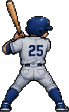
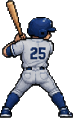
Everything anchored to the stadium picture: catcher, umpire and strike zone centred on the plate, outfielders in the outfield, one sprite scale, batter faces the plate, aim circle sized to the zone

diff --git a/index.html b/index.html
@@ -684,9 +684,9 @@ function blit(c, x, y, k, flip){
 }
 // ── generated art: load the ChatGPT sprites + field, used in place of the rig ──
 const ARTNAMES = ['swing1','swing2','swing3','swing4','pitch1','pitch2','pitch3','pitch4',
-  'catcher','infield','catch','run','pitcher_idle','fielder','walk'];
+  'catcher','infield','catch','run','pitcher_idle','fielder','walk','umpire'];
 const IMG = {}; let imgReady = 0;
-ARTNAMES.forEach(n => { const im = new Image(); im.onload = () => imgReady++; im.src = 'assets/' + n + '.png'; IMG[n] = im; });
+ARTNAMES.forEach(n => { const im = new Image(); im._n = n; im.onload = () => imgReady++; im.src = 'assets/' + n + '.png'; IMG[n] = im; });
 IMG.field = new Image(); IMG.field.onload = () => imgReady++; IMG.field.src = 'assets/fields/field_behind.png';
 const ready = im => im && im.complete && im.naturalWidth > 0;
 // draw a loaded sprite so its feet sit at (cx, footY) in logical units, scaled to height h
@@ -697,30 +697,48 @@ function blitImg(im, cx, footY, h, flip){
   g.drawImage(im, Math.round(-w / 2), Math.round(footY - h), Math.round(w), Math.round(h));
   g.restore(); return true;
 }
-// the batter: swingT null = standing in; else 0..1 drives the swing frames
+// each sprite: [width, height, where its feet are, as a fraction of its width] -- measured when the sheet was cut
+const ANCH = {"swing1": [73, 118, 0.515], "swing2": [80, 118, 0.536], "swing3": [106, 98, 0.301], "swing4": [91, 103, 0.67], "pitch1": [46, 114, 0.471], "pitch2": [52, 112, 0.65], "pitch3": [92, 104, 0.246], "pitch4": [102, 93, 0.639], "catcher": [76, 88, 0.499], "infield": [98, 88, 0.511], "catch": [66, 119, 0.299], "run": [91, 100, 0.563], "pitcher_idle": [45, 110, 0.498], "umpire": [53, 108, 0.5], "fielder": [51, 111, 0.433], "walk": [78, 112, 0.528]};
+// draw a sprite at ONE scale k (logical px per sprite px) with its feet planted at (cx, footY)
+function blitK(im, cx, footY, k, flip){
+  if (!ready(im)) return false;
+  const a = ANCH[im._n] || [im.naturalWidth, im.naturalHeight, .5];
+  const w = im.naturalWidth * k, h = im.naturalHeight * k;
+  g.save(); g.translate(Math.round(cx), 0); if (flip) g.scale(-1, 1);
+  g.drawImage(im, Math.round(-a[2] * w), Math.round(footY - h), Math.round(w), Math.round(h));
+  g.restore(); return true;
+}
+const K_BAT = .85, K_PIT = .5, K_CATCH = .7, K_UMP = .8;
+// the batter: swingT null = standing in; else 0..1 drives the swing.
+// Every frame used here faces the plate (a right-hander faces right), so he is side-on to the pitcher.
 function drawBatter(x, y, p, c1, c2, swingT, idle, num){
-  // swing2 (turned, bat cocked up) reads closest to the reference stance; swing1 was a flat back view
-  const im = swingT == null ? IMG.swing2
-           : swingT < .22 ? IMG.swing2 : swingT < .52 ? IMG.swing3 : IMG.swing4;
-  if (blitImg(im, x, y, 92, p.bats === 'L')) return;
+  const im = swingT == null || swingT < .12 ? IMG.swing4 : swingT < .5 ? IMG.swing3 : IMG.swing4;
+  if (blitK(im, x, y, K_BAT, p.bats === 'L')) return;
   const c = sprite(`B${lookKey(p.look)}|${c1}${c2}`, () => buildPlayer(batterPose(swingT), p.look, c1, c2, { number:num, helmet:1 }));
   blit(c, x, y, .70, p.bats === 'L');           // rig fallback until the image loads
 }
 // the pitcher on the mound, windup frames from u (0..1)
 function drawPitcher(x, y, p, c1, c2, u, num){
   const im = u == null || u < .40 ? IMG.pitch1 : u < .70 ? IMG.pitch2 : u < .85 ? IMG.pitch3 : IMG.pitch4;
-  if (blitImg(im, x, y, 50, false)) return;
+  if (blitK(im, x, y, K_PIT, false)) return;
   const c = sprite(`P${lookKey(p.look)}`, () => buildPlayer(pitcherPose(u || 0), p.look, c1, c2, { front:1 }));
   blit(c, x, y, .5, false);
 }
 // the catcher, crouched with his back to us
 function drawCatcher(x, y, p, c1, c2){
-  if (blitImg(IMG.catcher, x, y, 66, false)) return;
+  if (blitK(IMG.catcher, x, y, K_CATCH, false)) return;
   const c = sprite(`C${lookKey(p.look)}`, () => buildPlayer({ crouch:0, lean:0,
       hip:[56,74], chest:[56,54], neck:[56,45], head:[56,32], nSh:[47,50], fSh:[65,50],
       nEl:[36,62], nHa:[28,54], fEl:[76,62], fHa:[83,60], nKn:[32,82], nAn:[41,101], fKn:[80,82], fAn:[71,101],
       gloveA:200 }, p.look, c1, c2, { back:1, hardhat:1 }));
   blit(c, x, y, .52, false);
+}
+// the umpire stands behind the catcher
+function drawUmpire(x, y){ return blitK(IMG.umpire, x, y, K_UMP, false); }
+// a fielder, sized by his depth so the far ones are small
+function drawFielderSprite(x, y, s, per, flip){
+  const h = 285 * s * per;                              // a 285-pixel figure at the plate, shrinking with distance
+  return blitK(IMG.fielder, x, y, h / ANCH.fielder[1], flip);
 }
 // a fielder far away in the replay: a few pixels, but still shaded
 function drawMini(x, y, lk, c1, c2, k = 1){
@@ -747,12 +765,24 @@ const CROWD = ['#c9c3b4','#b89a9a','#92a6c0','#c4b47c','#a894b8','#9ab8a2','#cfa
    Everything is placed in real feet from home plate and projected onto the
    screen, so the diamond, the mound and the wall all sit where they should.
    ─────────────────────────────────────────────────────────────────────────── */
-const HOME_Y = 198, HORIZON = 70, PC = 56, PK = 3.25;
+const HOME_Y = 198, HORIZON = 70, PC = 56, PK = 3.25;     // (the old vector field's numbers, kept for the fallback)
 const pscale = d => PC / (PC + d);
+// The stadium picture is the truth. These are its landmarks, measured on the 1672 x 941 image:
+// plate (835,795), second base 380 px up, first/third base 765 px either side.
+const FLD_IMG = { w:1672, h:941, plate:[835, 795], rise:570, pc:63.7, px:24 };
+function I2L(ix, iy){            // picture pixel -> logical game pixel, using the same 'cover' fit it is drawn with
+  const sc = Math.max(cv.width / FLD_IMG.w, cv.height / FLD_IMG.h);
+  const dx = (cv.width - FLD_IMG.w * sc) / 2 + ix * sc, dy = cv.height - FLD_IMG.h * sc + iy * sc;
+  return { x:(dx - OX) / SC, y:(dy - OY) / SC, per:sc / SC };   // per = logical px for one picture px
+}
 // d = feet out from home plate, lat = feet to the right of the middle
 function proj(d, lat){
-  const s = pscale(d);
-  return { x: W / 2 + lat * s * PK, y: HOME_Y - (HOME_Y - HORIZON) * (1 - s), s };
+  // inside the infield feet are true; the picture shortens the outfield, so squeeze the radius past 127 ft
+  const r = Math.hypot(d, lat);
+  if (r > 127.3){ const f = (127.3 + (r - 127.3) * .33) / r; d *= f; lat *= f; }
+  const s = FLD_IMG.pc / (FLD_IMG.pc + Math.max(0, d));
+  const q = I2L(FLD_IMG.plate[0] + lat * FLD_IMG.px * s, FLD_IMG.plate[1] - FLD_IMG.rise * (1 - s));
+  return { x:q.x, y:q.y, s, per:q.per };
 }
 // a point on the field given an angle off dead centre (-45 = left line, +45 = right)
 const atAng = (ang, dist) => {
@@ -761,7 +791,7 @@ const atAng = (ang, dist) => {
 };
 const FIELDERS = [                                   // where the defence stands, in feet
   [100, 52, '1B'], [128, 34, '2B'], [128, -34, 'SS'], [100, -52, '3B'],
-  [275, -150, 'LF'], [318, 4, 'CF'], [275, 150, 'RF'],
+  [207, -104, 'LF'], [262, 0, 'CF'], [207, 104, 'RF'],
 ];
 
 function drawField(park, t){
@@ -934,7 +964,7 @@ function drawField(park, t){
 function drawFielders(team){
   FIELDERS.forEach(([d, lat], i) => {
     const p = proj(d, lat);
-    if (blitImg(IMG.fielder, p.x, p.y, Math.max(16, 50 * p.s), false)) return;
+    if (drawFielderSprite(p.x, p.y, p.s, p.per, lat < -20)) return;     // left-side fielders turn toward the plate
     drawMini(p.x, p.y, (team.lineup[i] || team.lineup[0]).look, team.c1, team.c2, p.s * 2.4);
   });
 }
@@ -942,7 +972,11 @@ function drawFielders(team){
 // ───────────────────────────────────────────────────────────────────────────
 //  GAME (one nine-inning game)
 // ───────────────────────────────────────────────────────────────────────────
-const ZONE = { x: 190, y: 160, w: 40, h: 34 };                 // right over the plate (x set in fit())
+const ZONE = { x: 190, y: 160, w: 40, h: 34 };                 // right over the plate
+function layoutZone(){                                          // re-centre it on the plate every frame
+  const p = proj(0, 0);
+  ZONE.w = 40; ZONE.h = 34; ZONE.x = p.x - ZONE.w / 2; ZONE.y = p.y - 60;
+}
 const PITCHES = { FB:{ n:'Fastball', mph:[90,102], br:[0,0],     col:'#ff6b5a' },
                   CV:{ n:'Curve',    mph:[74,84],  br:[0,22],    col:'#5ad2ff' },
                   SL:{ n:'Slider',   mph:[82,90],  br:[-20,8],   col:'#c48bff' },
@@ -1116,7 +1150,7 @@ function ballAt(f){
   const tx = ZONE.x + ZONE.w / 2 + P.tx * ZONE.w / 2, ty = ZONE.y + ZONE.h / 2 + P.ty * ZONE.h / 2;
   return { x: lerp(rel.x, tx + P.br[0] * e, e), y: lerp(rel.y, ty + P.br[1] * e, e), r: lerp(1, 5, e) };
 }
-function releasePt(){ const m = proj(60.5, 0); return { x: m.x + 5, y: m.y - 22 }; }
+function releasePt(){ const m = proj(60.5, 0); return { x: m.x + 4, y: m.y - 40 }; }
 const mittPt = () => ({ x: ZONE.x + ZONE.w / 2 - 12, y: ZONE.y + ZONE.h + 14 });
 const inZone = () => Math.abs(P.tx) <= 1 && Math.abs(P.ty) <= 1;
 
@@ -1618,6 +1652,7 @@ function drawFieldHD(park, t){
 
 function drawBatterView(dt){
   const park = M.park; park.excite = M.exc;
+  layoutZone();
   drawFieldHD(park, frame);
   const ft = fldTeam(), bt = batTeam();
   drawFielders(ft);
@@ -1630,14 +1665,14 @@ function drawBatterView(dt){
   drawPitcher(M0.x, M0.y + 3, pit, ft.c1, ft.c2, u, .62);
 
   // ── the umpire, then the catcher crouched under the plate ───────────────
-  const HP = proj(0, 0);
-  drawUmp(HP.x - 2, H + 20, ft);
-  drawCatcher(HP.x - 8, H + 4, M.catcher || ft.lineup[0], ft.c1, ft.c2);
+  const HP = proj(0, 0), ip = HP.per;                         // ip = logical px per picture px
+  drawUmpire(HP.x, HP.y + 172 * ip);
+  drawCatcher(HP.x, HP.y + 130 * ip, M.catcher || ft.lineup[0], ft.c1, ft.c2);   // centred right behind the plate
 
-  // ── the batter in the box ───────────────────────────────────────────────
+  // ── the batter in his box, facing the plate ─────────────────────────────
   const b = M.batter, side = b.bats === 'L' ? 1 : -1;
-  const bx = HP.x + side * 62;                               // inside the box, clear of the catcher and the zone
-  drawBatter(bx, HOME_Y + 20, b, bt.c1, bt.c2, swing ? clamp(swing.t / 220, 0, 1) : null, frame, b.num);
+  const bx = HP.x + side * 150 * ip;                         // the middle of the batter's box in the picture
+  drawBatter(bx, HP.y + 45 * ip, b, bt.c1, bt.c2, swing ? clamp(swing.t / 220, 0, 1) : null, frame, b.num);
 
   // ── the strike zone, floating over the plate ────────────────────────────
   const live = P && (P.thrown || P.aim || phase === 'pitching');
@@ -1822,10 +1857,11 @@ function drawPitchUI(){
   });
   textb('tap the zone to throw', W / 2, H - 12, '#9aa6bd', 7, 'center');
   // the circle showing where it might actually go
-  const s = spread(p) * (1 + clamp((Math.abs(aim.x) + Math.abs(aim.y)) / 2, 0, 1.4) * 1.1);
+  const miss = (spread(p) / 26) * (1 + clamp((Math.abs(aim.x) + Math.abs(aim.y)) / 2, 0, 1.4) * 1.1);   // zone units
+  const rad = miss * ZONE.w / 2;                                  // the real size of where the pitch can land
   const cx = ZONE.x + ZONE.w / 2 + aim.x * ZONE.w / 2, cy = ZONE.y + ZONE.h / 2 + aim.y * ZONE.h / 2;
-  g.strokeStyle = s > 26 ? '#ff6b5a99' : s > 15 ? '#ffd23f99' : '#54d67a99'; g.lineWidth = 1;
-  g.beginPath(); g.arc(cx, cy, s, 0, 7); g.stroke();
+  g.strokeStyle = miss > 1 ? '#ff6b5acc' : miss > .6 ? '#ffd23fcc' : '#54d67acc'; g.lineWidth = 1.5;
+  g.beginPath(); g.arc(cx, cy, rad, 0, 7); g.stroke();
   R(cx - 1, cy - 1, 2, 2, '#fff');
 }
 
@@ -1844,19 +1880,20 @@ function drawPlay(){
   // the defence where the simulation has them
   (FLD || []).forEach(f => {
     const q = proj(f.x, f.y);
-    drawMini(q.x, q.y, f.man.look, ft.c1, ft.c2, q.s * 2.4);
+    if (!drawFielderSprite(q.x, q.y, q.s, q.per, f.y < -20)) drawMini(q.x, q.y, f.man.look, ft.c1, ft.c2, q.s * 2.4);
     if (f.chasing && !B.caught && B.h > 1){                 // a marker so you can see who is on it
-      R(q.x - 3, q.y - 26, 6, 1, '#ffd23f'); R(q.x - 1, q.y - 25, 2, 2, '#ffd23f');
+      const my = q.y - 285 * q.s * q.per - 4;
+      R(q.x - 3, my, 6, 1, '#ffd23f'); R(q.x - 1, my + 1, 2, 2, '#ffd23f');
     }
   });
 
   // the batter running it out, and anyone already on base
   const run = clamp((P.playT - 150) / 1500, 0, 1);
   const rp = proj(90 * run * .8, 90 * run * .8);
-  drawMini(rp.x, rp.y, M.batter.look, bt.c1, bt.c2, rp.s * 2.2);
+  if (!blitK(IMG.run, rp.x, rp.y, 285 * rp.s * rp.per / ANCH.run[1], false)) drawMini(rp.x, rp.y, M.batter.look, bt.c1, bt.c2, rp.s * 2.2);
   M.bases.forEach((p2, i) => { if (!p2) return;
     const base = [atAng(45, 90), atAng(0, 127), atAng(-45, 90)][i];
-    drawMini(base.x, base.y - 2, p2.look, bt.c1, bt.c2, base.s * 2.2); });
+    if (!drawFielderSprite(base.x, base.y, base.s, base.per, false)) drawMini(base.x, base.y - 2, p2.look, bt.c1, bt.c2, base.s * 2.2); });
 
   // the ball, with its shadow on the ground so you can read the height
   const gp = proj(B.d, B.lat);

diff --git a/sw.js b/sw.js
@@ -1,4 +1,4 @@
-const CACHE = 'retro-baseball-202610270422';
+const CACHE = 'retro-baseball-202610270435';
 const APP = ['./', 'index.html', 'manifest.webmanifest', 'icon-180.png', 'icon-192.png', 'icon-512.png'];
 self.addEventListener('install', e => { e.waitUntil(caches.open(CACHE).then(c => c.addAll(APP.map(u => new Request(u, { cache:'reload' })))).then(() => self.skipWaiting())); });
 self.addEventListener('activate', e => { e.waitUntil(caches.keys().then(ks => Promise.all(ks.filter(k => k !== CACHE).map(k => caches.delete(k)))).then(() => self.clients.claim())); });
